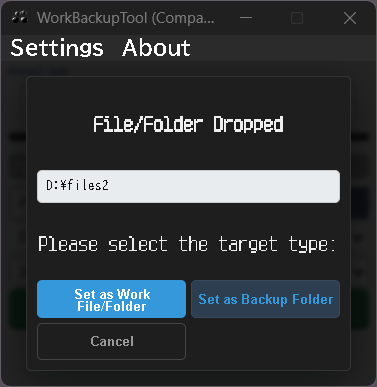
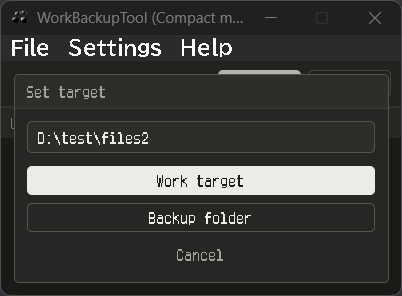
スクショとREADMEの更新

diff --git a/README.md b/README.md
@@ -20,6 +20,10 @@ This tool was created by the author for personal use to ensure quick and reliabl
 
 *Drag & drop a file or folder directly onto the window to set it as the backup target.*
 
+![Main Window – Mode Select](docs/screenshots/main-window-mode-select.png)
+
+*Backup mode selection in the main window.*
+
 ### Compact Window
 
 ![Compact Window](docs/screenshots/compact-window.png)
@@ -33,6 +37,28 @@ This tool was created by the author for personal use to ensure quick and reliabl
 ![Compact Window – Drag & Drop](docs/screenshots/compact-window-dnd.png)
 
 *Drag & drop support in compact mode.*
+
+![Compact Window – History](docs/screenshots/compact-window-history.png)
+
+*Backup history displayed in compact mode.*
+
+![Compact Window – Mode Select](docs/screenshots/compact-window-mode-select.png)
+
+*Backup mode selection in compact mode.*
+
+### Compact Window – System Tray
+
+![Compact Window – Tray](docs/screenshots/compact-window-tray.png)
+
+*Compact window operating from the system tray.*
+
+![Compact Window – Tray History](docs/screenshots/compact-window-tray-history.png)
+
+*Backup history accessible from the compact window in tray mode.*
+
+![Compact Window – Tray Mode Select](docs/screenshots/compact-window-tray-mode-select.png)
+
+*Backup mode selection in the compact window in tray mode.*
 
 ---
 
@@ -253,3 +279,4 @@ This project is licensed under the MIT License. See [LICENSE.md](LICENSE.md) for
 Copyright (c) 2024-2026 m0090-dev
 
 For a complete list of third-party licenses and credits, please refer to `CREDITS.md`.
+
